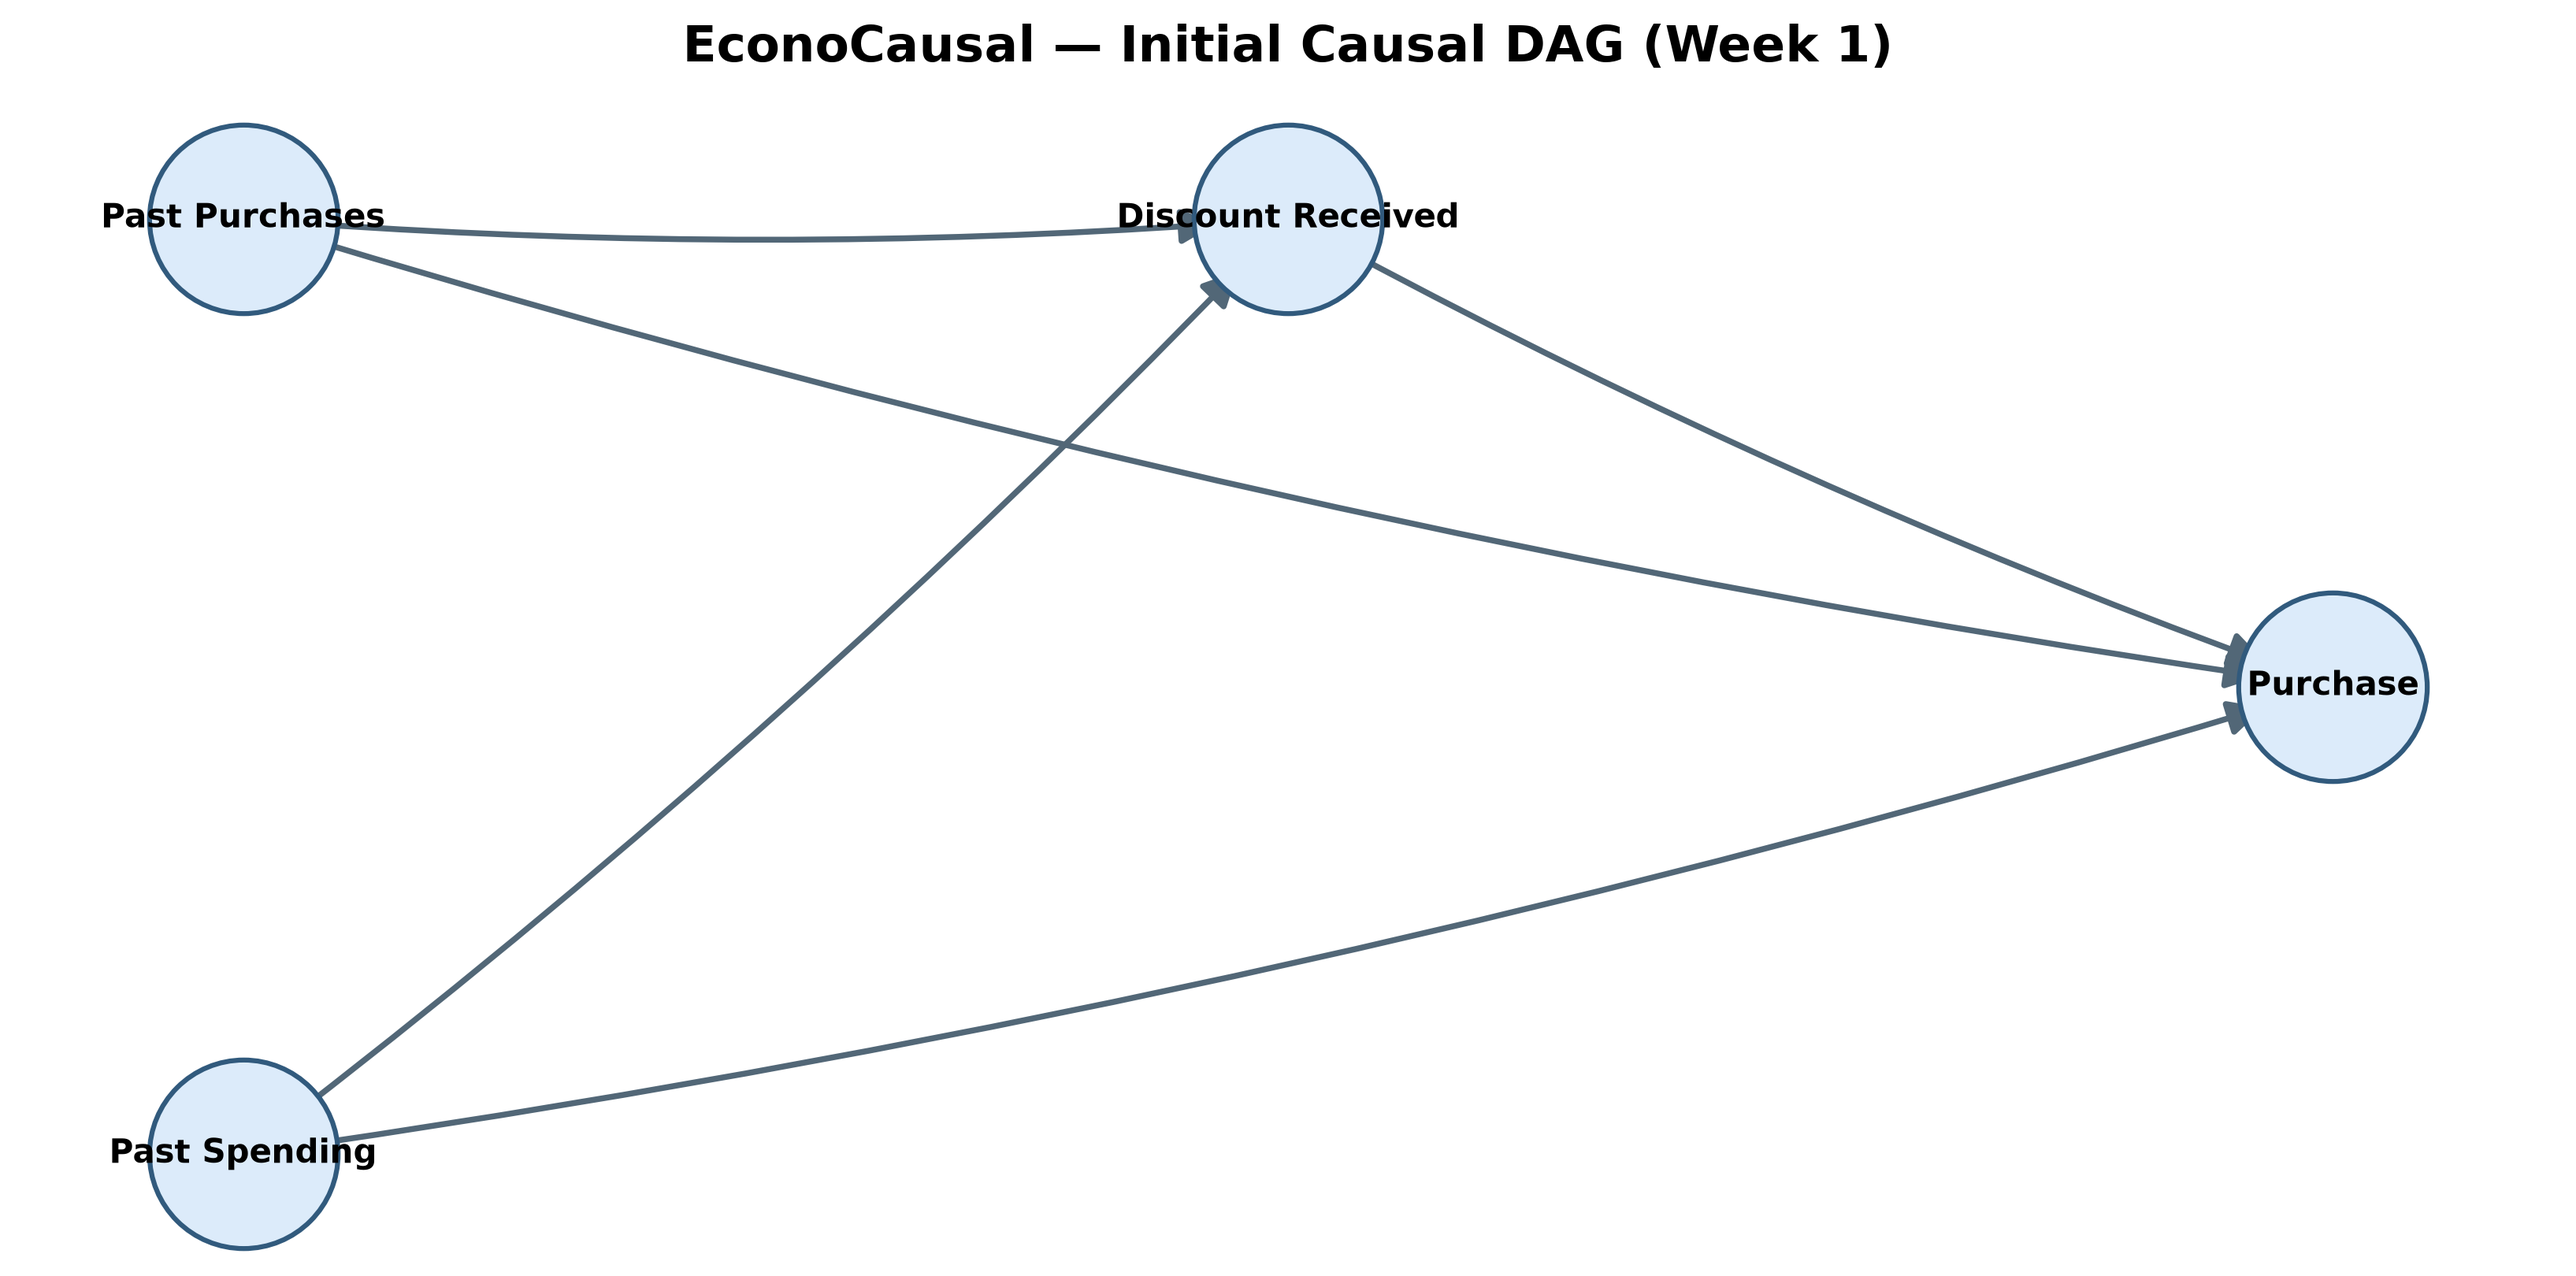
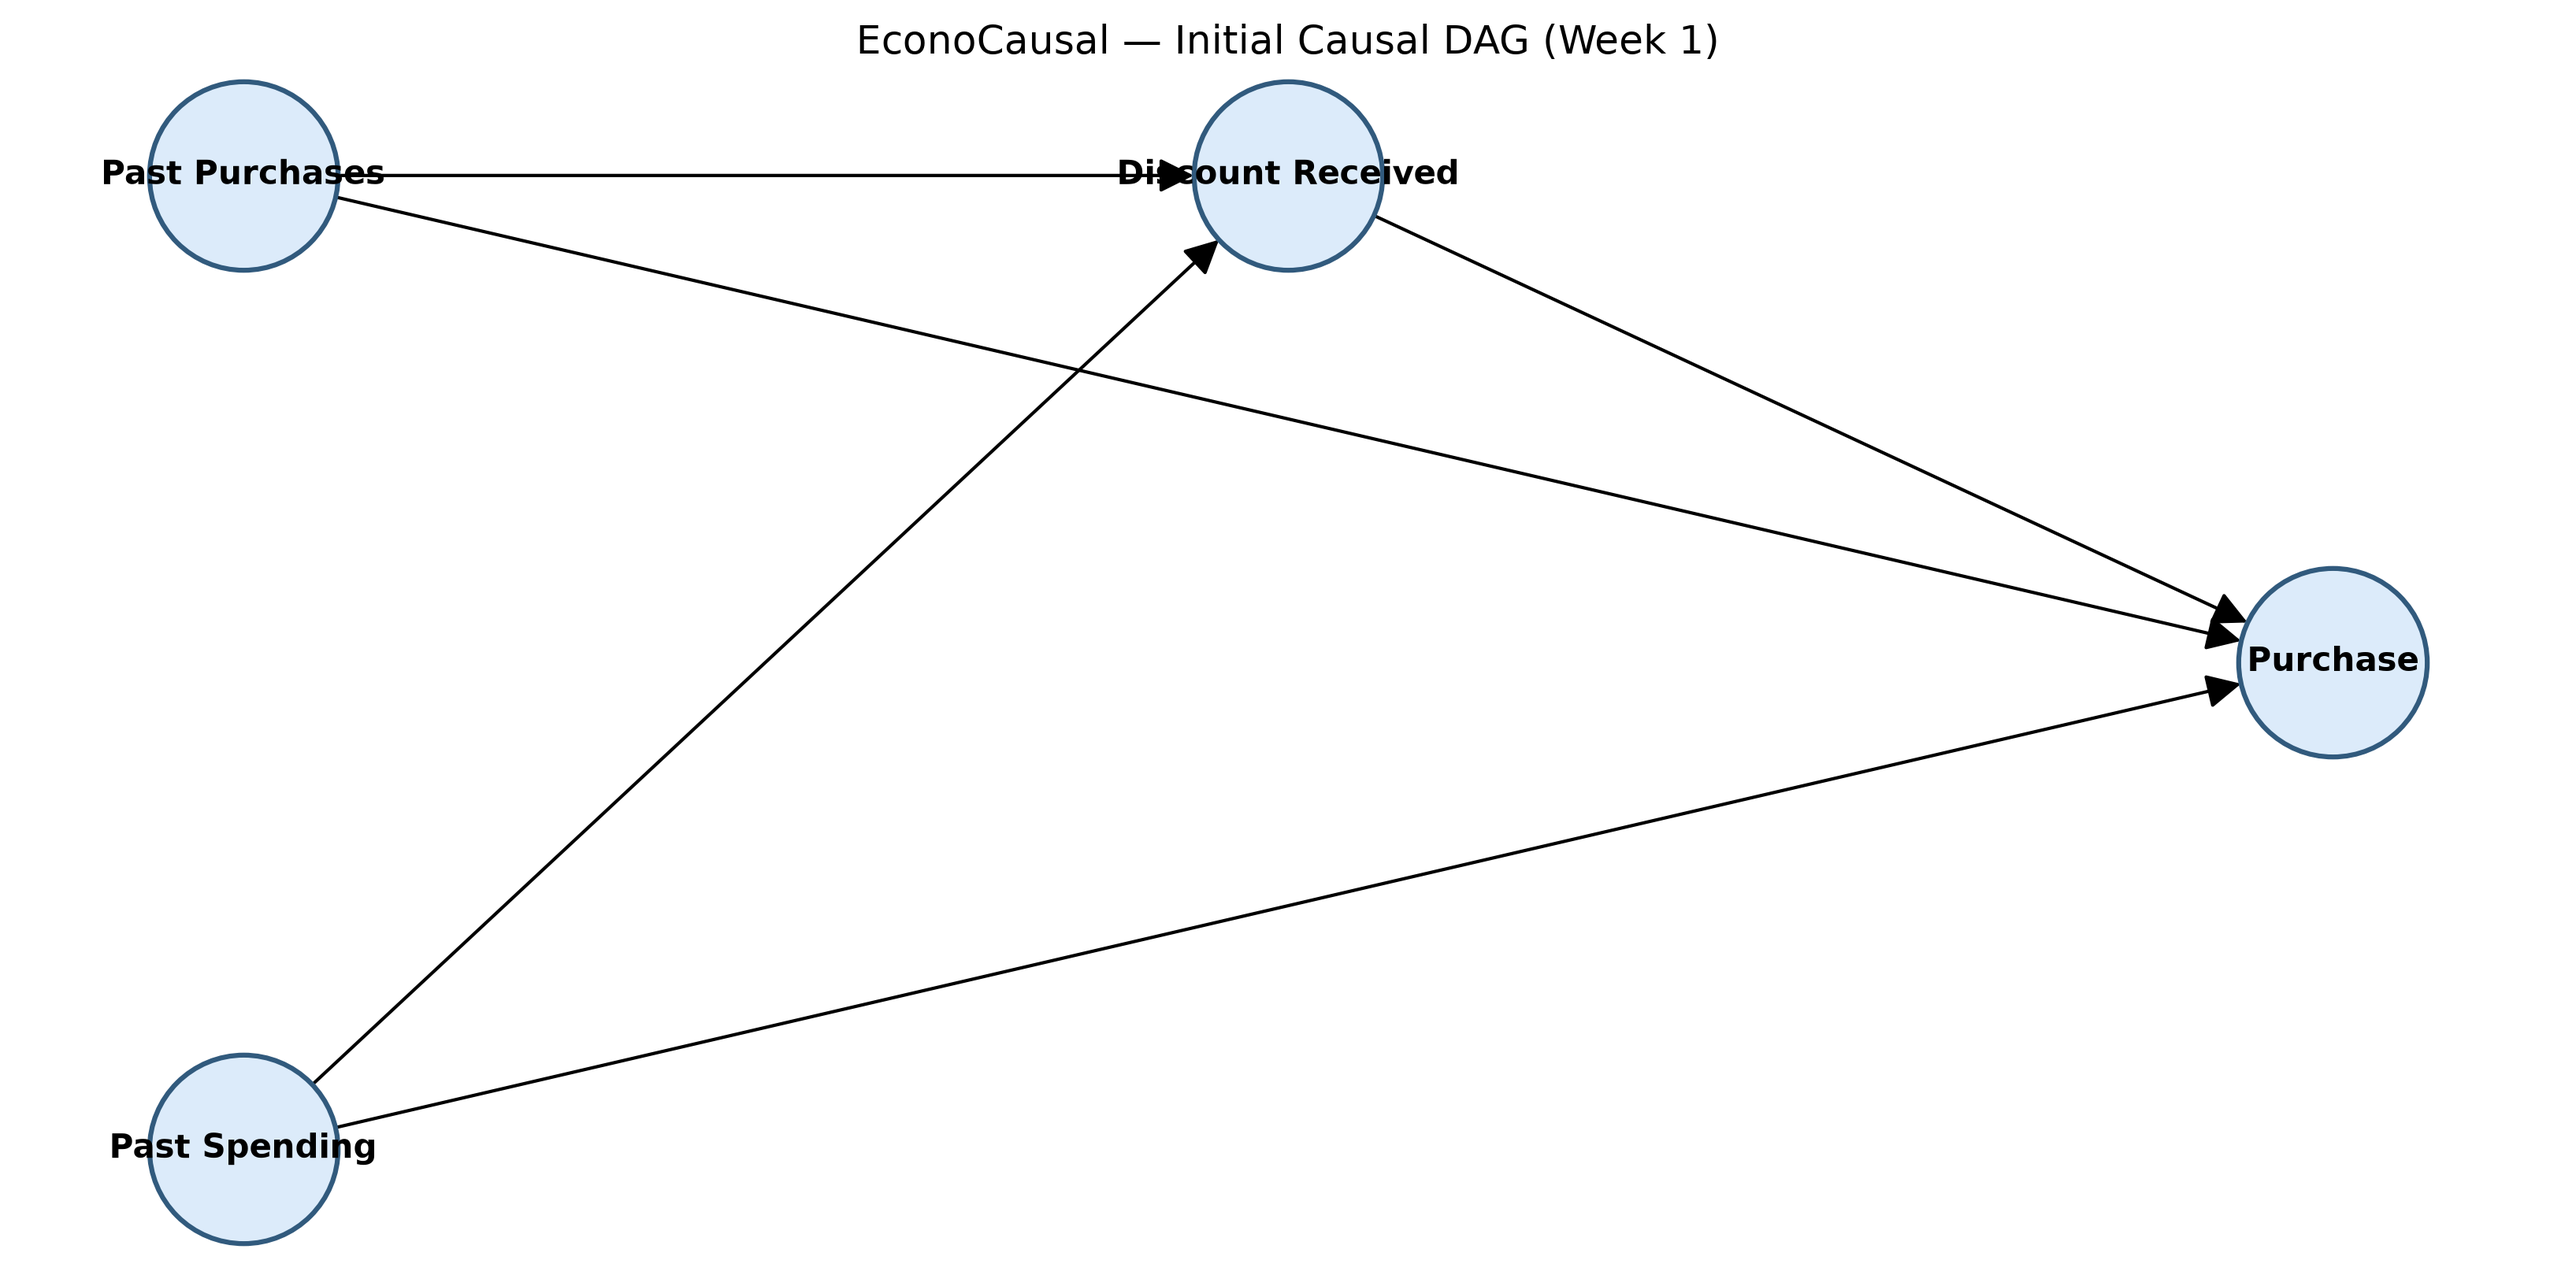
Improve causal DAG and update assumptions

diff --git a/src/Casual_graph.py b/src/Casual_graph.py
@@ -1,65 +1,64 @@
-"""
-EconoCausal — Week 1: Initial causal graph (DAG)
-
-IMPORTANT:
-- This graph expresses initial causal assumptions, not facts proven by data.
-- Confirm the variable names with the teammate preparing the dataset.
-- Update the graph if the actual dataset uses different columns.
-"""
-
-import networkx as nx
-import matplotlib.pyplot as plt
-
-
-def build_causal_graph():
-    graph = nx.DiGraph()
-
-    graph.add_nodes_from([
-        "Past Purchases",
-        "Past Spending",
-        "Discount Received",
-        "Purchase",
-    ])
-
-    graph.add_edges_from([
-        ("Past Purchases", "Discount Received"),
-        ("Past Purchases", "Purchase"),
-        ("Past Spending", "Discount Received"),
-        ("Past Spending", "Purchase"),
-        ("Discount Received", "Purchase"),
-    ])
-    return graph
-
-
 def save_causal_graph(output_path="docs/causal_dag.png"):
+    import os
+
     graph = build_causal_graph()
+    os.makedirs(os.path.dirname(output_path), exist_ok=True)
+
     pos = {
-        "Past Purchases": (0, 1),
-        "Past Spending": (0, -1),
-        "Discount Received": (2, 1),
-        "Purchase": (4, 0),
+        "Past Purchases": (0, 1.5),
+        "Past Spending": (0, -1.5),
+        "Discount Received": (3, 1.5),
+        "Purchase": (6, 0),
     }
 
-    plt.figure(figsize=(11, 5.5))
+    plt.figure(figsize=(13, 7))
+
     nx.draw_networkx_nodes(
-        graph, pos, node_size=3300, node_color="#DCEBFA",
-        edgecolors="#315A7D", linewidths=1.5
+        graph,
+        pos,
+        node_size=4200,
+        node_color="#DCEBFA",
+        edgecolors="#315A7D",
+        linewidths=1.8,
     )
-    nx.draw_networkx_labels(graph, pos, font_size=10, font_weight="bold")
+
+    nx.draw_networkx_labels(
+    graph,
+    pos,
+    labels={
+        "Past Purchases": "Past\nPurchases",
+        "Past Spending": "Past\nSpending",
+        "Discount Received": "Discount\nReceived",
+        "Purchase": "Purchase",
+    },
+    font_size=9,
+    font_weight="bold",
+    verticalalignment="center",
+)
+
     nx.draw_networkx_edges(
-        graph, pos, arrows=True, arrowstyle="-|>", arrowsize=22,
-        width=1.8, edge_color="#526777",
-        connectionstyle="arc3,rad=0.04",
-        min_source_margin=22, min_target_margin=22
+        graph,
+        pos,
+        arrows=True,
+        arrowstyle="-|>",
+        arrowsize=24,
+        width=1.8,
+        edge_color="#526777",
+        connectionstyle="arc3,rad=0.08",
+        min_source_margin=28,
+        min_target_margin=28,
     )
-    plt.title("EconoCausal — Initial Causal DAG (Week 1)",
-              fontsize=15, fontweight="bold", pad=18)
+
+    plt.title(
+        "EconoCausal — Initial Causal DAG (Week 1)",
+        fontsize=16,
+        fontweight="bold",
+        pad=25,
+    )
+
     plt.axis("off")
     plt.tight_layout()
     plt.savefig(output_path, dpi=300, bbox_inches="tight")
     plt.close()
 
-
-if __name__ == "__main__":
-    save_causal_graph()
-    print("Causal DAG saved to docs/causal_dag.png")
+    print(f"Causal DAG saved to {output_path}")

diff --git a/docs/Casual_assumptions.md b/docs/Casual_assumptions.md
@@ -1,41 +1,56 @@
 # EconoCausal — Initial Causal DAG Assumptions (Week 1)
 
 ## Purpose
-Represent the initial assumptions about how customer history, discount assignment,
-and purchase behavior may be related. This is the starting point for later causal
-effect estimation; it does not prove that the relationships are true.
+
+Represent the initial assumptions about how customer history, discount
+assignment, and purchase behavior may be related. This is the starting
+point for later causal effect estimation; it does not prove that the
+relationships are true.
 
 ## Variables
-- **Discount Received (treatment):** whether a customer receives a discount.
-- **Purchase (outcome):** whether the customer makes a purchase.
-- **Past Purchases (potential confounder):** prior purchase behavior may influence
+
+- **Discount Received (treatment):** Whether a customer receives a discount.
+- **Purchase (outcome):** Whether the customer makes a purchase.
+- **Past Purchases (potential confounder):** Prior purchase behavior may
+  influence both discount assignment and the chance of purchasing.
+- **Past Spending (potential confounder):** Prior spending may influence
   both discount assignment and the chance of purchasing.
-- **Past Spending (potential confounder):** prior spending may influence both
-  discount assignment and the chance of purchasing.
 
-## Directed edges
-1. Past Purchases -> Discount Received
-2. Past Purchases -> Purchase
-3. Past Spending -> Discount Received
-4. Past Spending -> Purchase
-5. Discount Received -> Purchase
+## Directed Edges
 
-## Important validation notes
+1. Past Purchases → Discount Received
+2. Past Purchases → Purchase
+3. Past Spending → Discount Received
+4. Past Spending → Purchase
+5. Discount Received → Purchase
+
+## Important Validation Notes
+
 - These arrows are proposed assumptions based on a possible retail scenario.
 - Confirm them with the project team and the actual dataset/business process.
 - The dataset's real column names may differ; map these concepts to the agreed columns.
 - If discounts are randomly assigned, some assumed arrows into `Discount Received`
   may not be appropriate.
-- Do not claim this DAG proves causation. The quality of causal estimates depends on
-  assumptions and data quality.
+- Do not claim this DAG proves causation. The quality of causal estimates depends
+  on assumptions and data quality.
 
-  ## Next Steps
+## Next Steps
 
 1. Confirm the proposed variables and relationships with the project team.
 2. Check the actual dataset column names before building the causal model.
 3. Use DoWhy to define the treatment, outcome, and potential confounders.
-4. In Week 2, estimate discount treatment effects using Double Machine Learning (DML), if the data and assumptions support it.
+4. In Week 2, estimate discount treatment effects using Double Machine Learning
+   (DML), if the data and assumptions support it.
 
 ## Conclusion
 
-This causal DAG provides an initial structure for understanding the relationship between customer history, discount assignment, and purchase behavior. It represents proposed assumptions, not proven causal relationships.
+This causal DAG provides an initial structure for understanding the relationship
+between customer history, discount assignment, and purchase behavior. It represents
+proposed assumptions, not proven causal relationships.
+
+## Limitations
+
+- The causal relationships in this DAG are initial assumptions.
+- The treatment and outcome variables must be mapped to the actual dataset columns.
+- The meaning of the discount-related variable must be confirmed before causal analysis.
+- The graph has not yet been validated using data.
